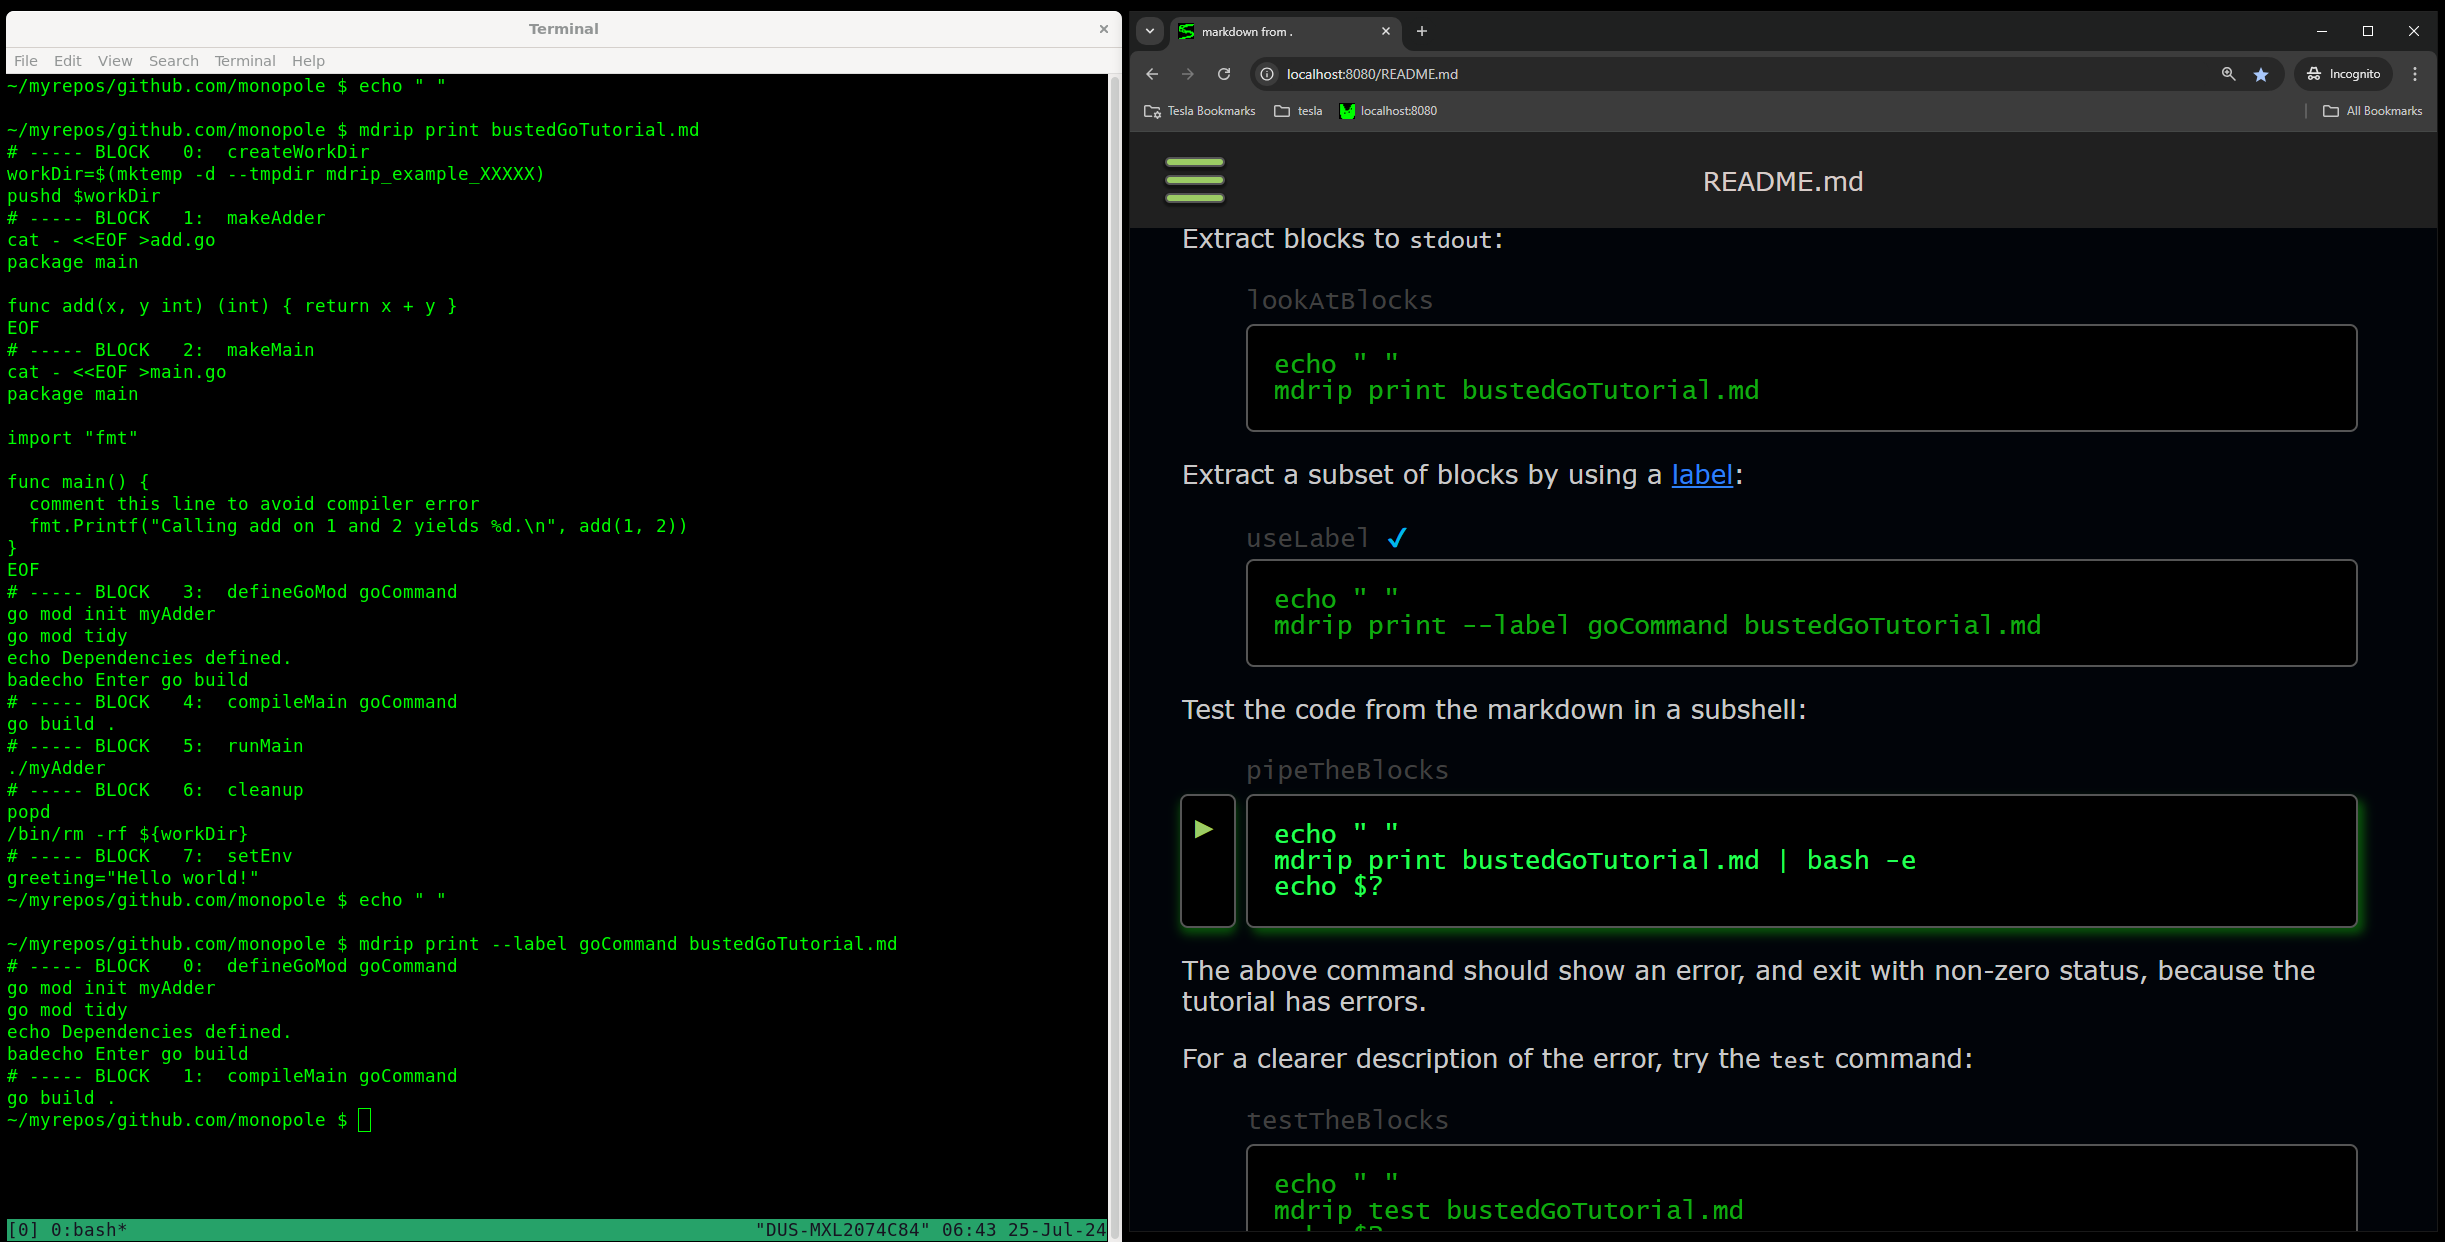
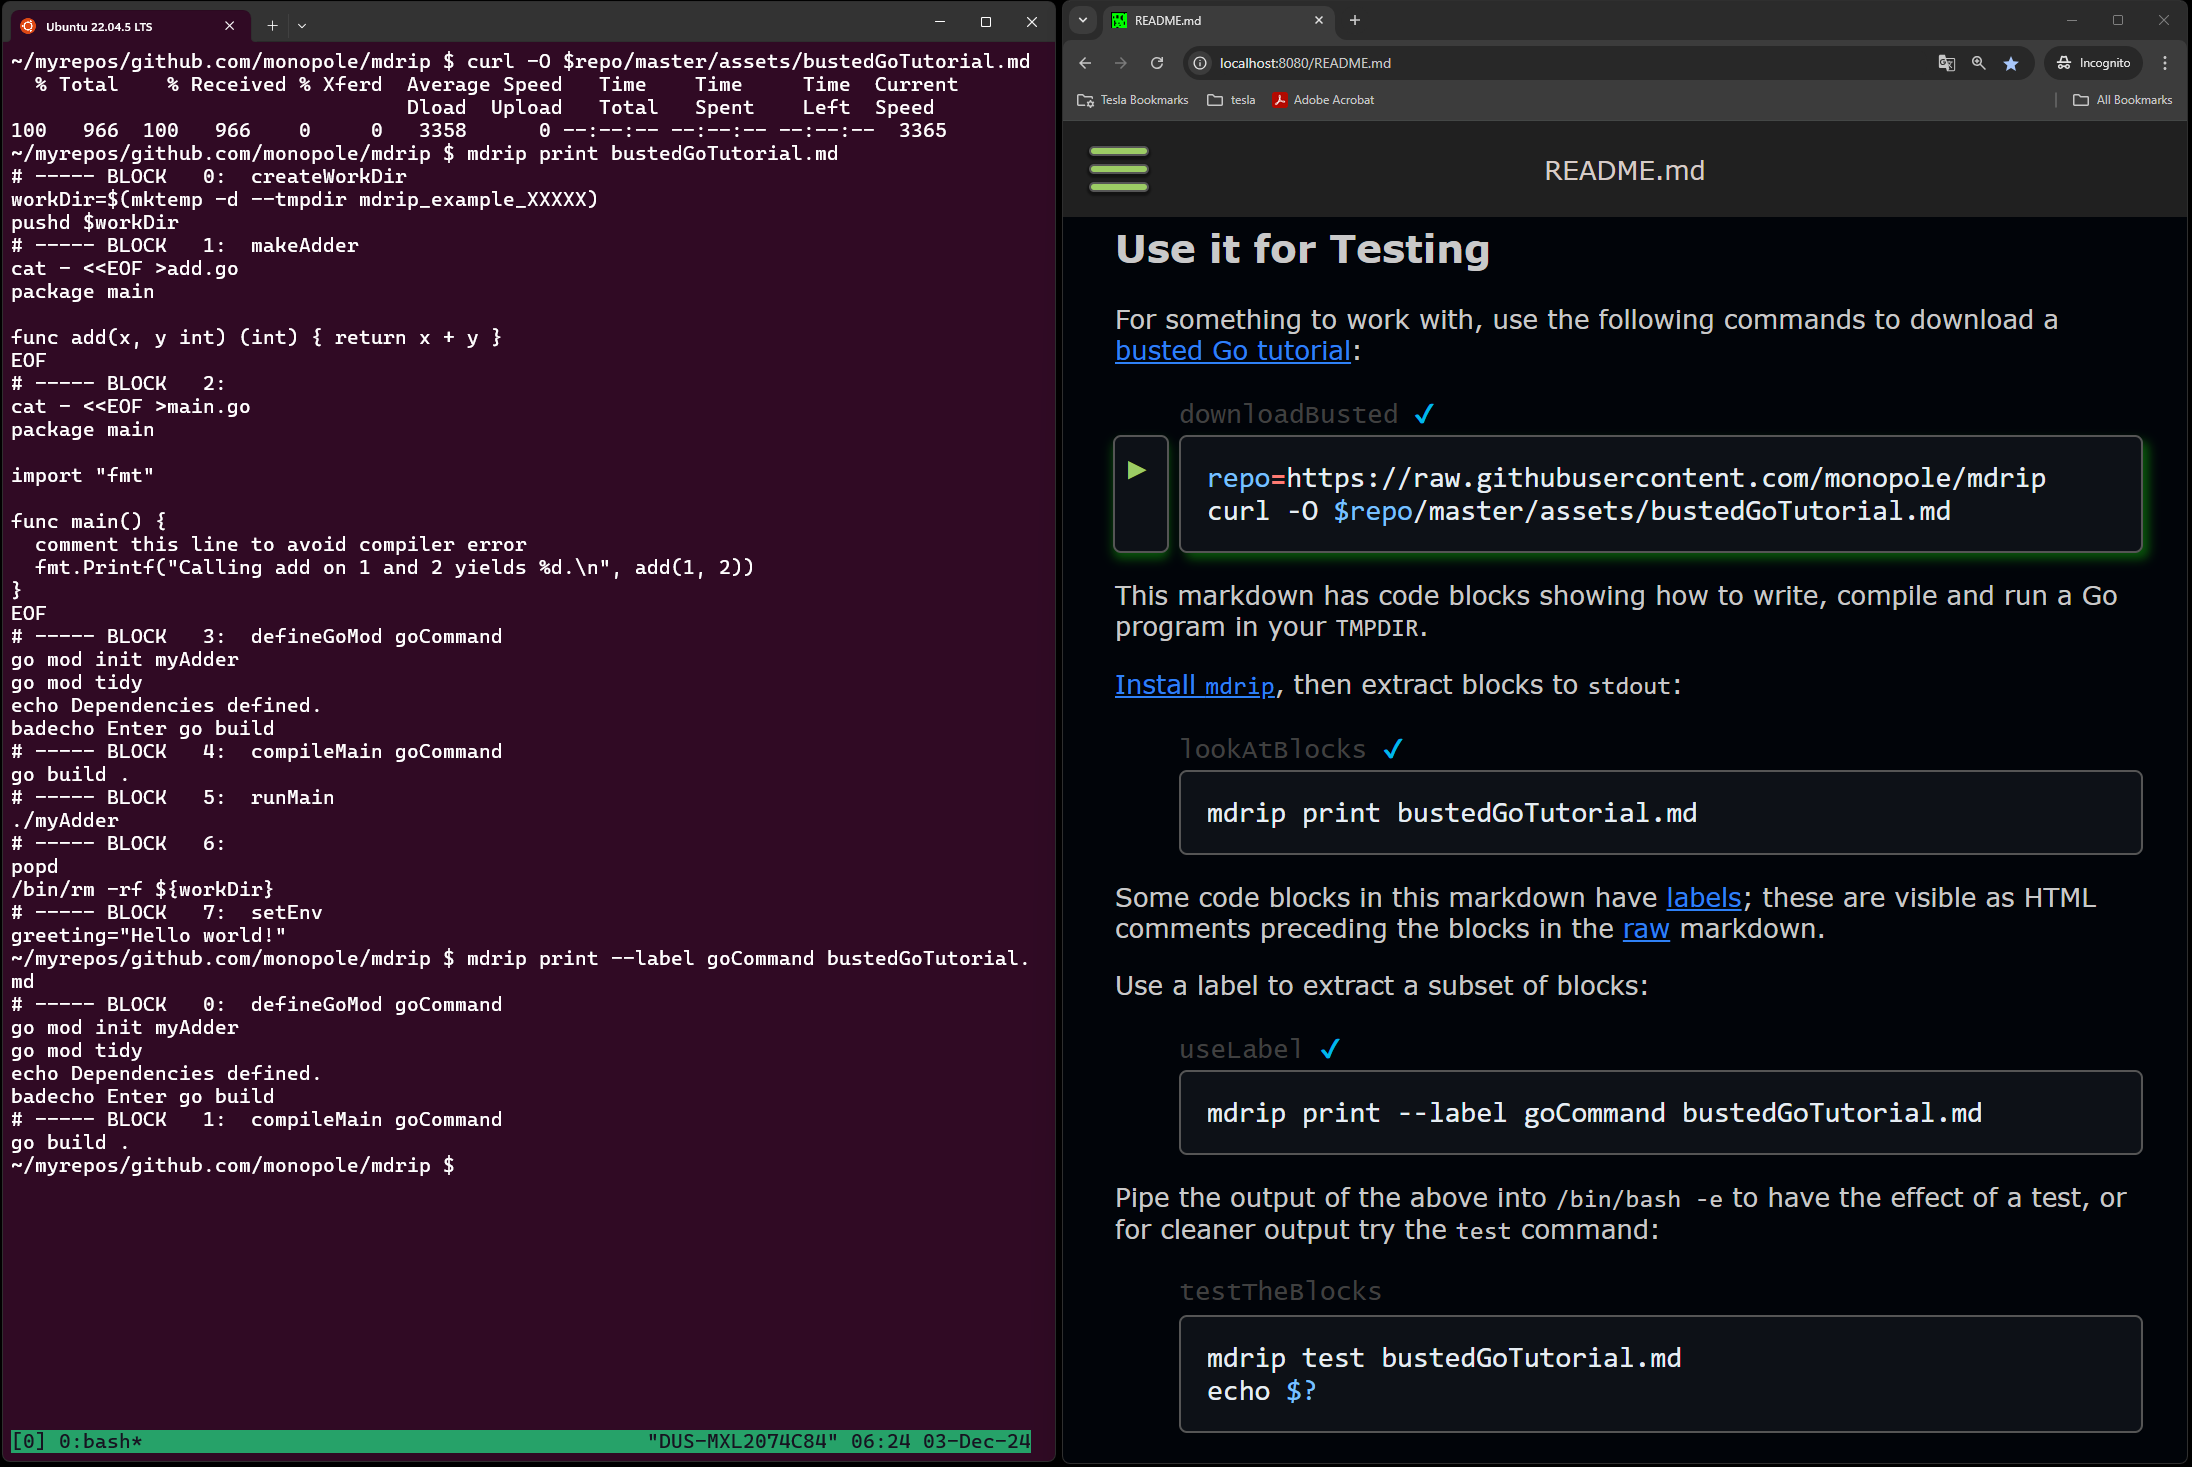
Update readme.

diff --git a/README.md b/README.md
@@ -1,6 +1,5 @@
 # mdrip
 
-[literate programming]: http://en.wikipedia.org/wiki/Literate_programming
 [_here_ documents]: http://tldp.org/LDP/abs/html/here-docs.html
 [busted Go tutorial]: assets/bustedGoTutorial.md
 [raw]: https://github.com/monopole/mdrip/blob/master/assets/bustedGoTutorial.md?plain=1
@@ -10,52 +9,29 @@
 [block quote]: https://github.github.com/gfm/#block-quotes
 [label]: #labels
 [labels]: #labels
+[install]: ./assets/INSTALL.md
+[Install `mdrip`]: ./assets/INSTALL.md
 
 <!-- [![Build Status](https://travis-ci.org/monopole/mdrip.svg?branch=master)](https://travis-ci.org/monopole/mdrip) -->
 [![Go Report Card](https://goreportcard.com/badge/github.com/monopole/mdrip/v2)](https://goreportcard.com/report/github.com/monopole/mdrip/v2)
 
-`mdrip` is a markdown code block extractor.
+`mdrip` serves rendered markdown to a browser, and allows one to 
+paste code blocks directly to [`tmux`] for execution without use of a mouse.
 
-To install, see [INSTALL](./assets/INSTALL.md).
+It's a tool for markdown-based [literate programming](#literate-programming),
+and allows one to place markdown-based instructions under end-to-end testing.
 
-To extract and print all code blocks below your current directory:
-
-> ```
-> mdrip print .
-> ```
-
-Pipe that into `/bin/bash -e` to have the effect of a test, or for 
-cleaner output try the `test` command:
-
-> ```
-> mdrip test .
-> ```
-
-This fails only if an extracted markdown code block fails.
-Use a [label] to be selective about which blocks to run.
-
-To give demos with [`tmux`], or generally use your browser and `tmux`
-as a markdown code block development environment, try:
-
-> ```
-> mdrip serve --port 8080 .
-> ```
-
-In the browser, while focused on a code block, hit the `Enter` key.
-The app posts the block's ID to the server, and the server sends
-the corresponding code block to `tmux` via its api.
+`mdrip`, being a single-file Go-based executable, is easy to [install].
 
 <a href="assets/mdripDemo.png" target="_blank">
 <img src="assets/mdripDemo.png"
   alt="mdrip screenshot" width="100%" height="auto">
 </a>
 
+## Use it for Testing
 
-
-## Basic Extraction and Testing
-
-For something to work with,
-download this [busted Go tutorial]:
+For something to work with, use the following commands to
+download a [busted Go tutorial]:
 
 <!-- @downloadBusted -->
 ```shell
@@ -66,7 +42,7 @@ curl -O $repo/master/assets/bustedGoTutorial.md
 This markdown has code blocks showing how to write, compile
 and run a Go program in your `TMPDIR`.
 
-Extract the blocks to `stdout`:
+[Install `mdrip`], then extract blocks to `stdout`:
 
 <!-- @lookAtBlocks -->
 ```shell
@@ -82,7 +58,8 @@ Use a label to extract a subset of blocks:
 mdrip print --label goCommand bustedGoTutorial.md
 ```
 
-Test the code from the markdown in a subshell:
+Pipe the output of the above into `/bin/bash -e` to have the effect of a test,
+or for cleaner output try the `test` command:
 
 <!-- @testTheBlocks -->
 ```shell
@@ -186,7 +163,7 @@ is treated as the block's _name_ for various purposes.
 If no labels are present, a block name is generated for these
 purposes.
 
-## Demonstrations and Tutorial Development
+## Use it for Tutorials
 
 `mdrip` and [`tmux`] provide a handy way to develop and demonstrate
 command line procedures.
@@ -196,7 +173,7 @@ Render a markdown web app like this:
 ```shell
 mdrip serve --port 8000 goTutorial.md
 ```
-Visit it at [localhost:8000]([http://localhost:8000].).
+Visit it at [localhost:8000](http://localhost:8000).
 
 Hit the `n` key for navigation tools.
 Hit `?` to see all key controls.
@@ -226,14 +203,14 @@ mdrip serve ${tmpdir}/mdTestData
 ```
 
 
-## Tips
+## Literate Programming
 
-`mdrip` encourages [literate programming] via markdown.
+[_literate programming_]: http://en.wikipedia.org/wiki/Literate_programming
 
-It lets one run or test code (shell commands) that is otherwise
-embedded in explanatory content (markdown).
+`mdrip` encourages [_literate programming_] via markdown.
+It lets one run code that is embedded in explanatory content.
 
-One can use [_here_ documents] to incorporate _any_ programming
+One can use [_here_ documents] to incorporate any programming
 language into tested markdown - as in the [busted Go tutorial]
 discussed above.  That tutorial could have covered C, C++, Rust, etc.
 
@@ -245,14 +222,3 @@ e.g. alternative commands with fake arguments or example output,
 should be in a fenced code block indented via a
 [block quote]. Block quotes are ignored by `mdrip`.
 
-Eschew adding prompts to code blocks.
-The following code snippet is easy to copy/paste:
-> ```
-> echo hello
-> du -sk
-> ```
-But this is not:
-> ```
-> $ echo hello
-> $ du -sk
-> ```
